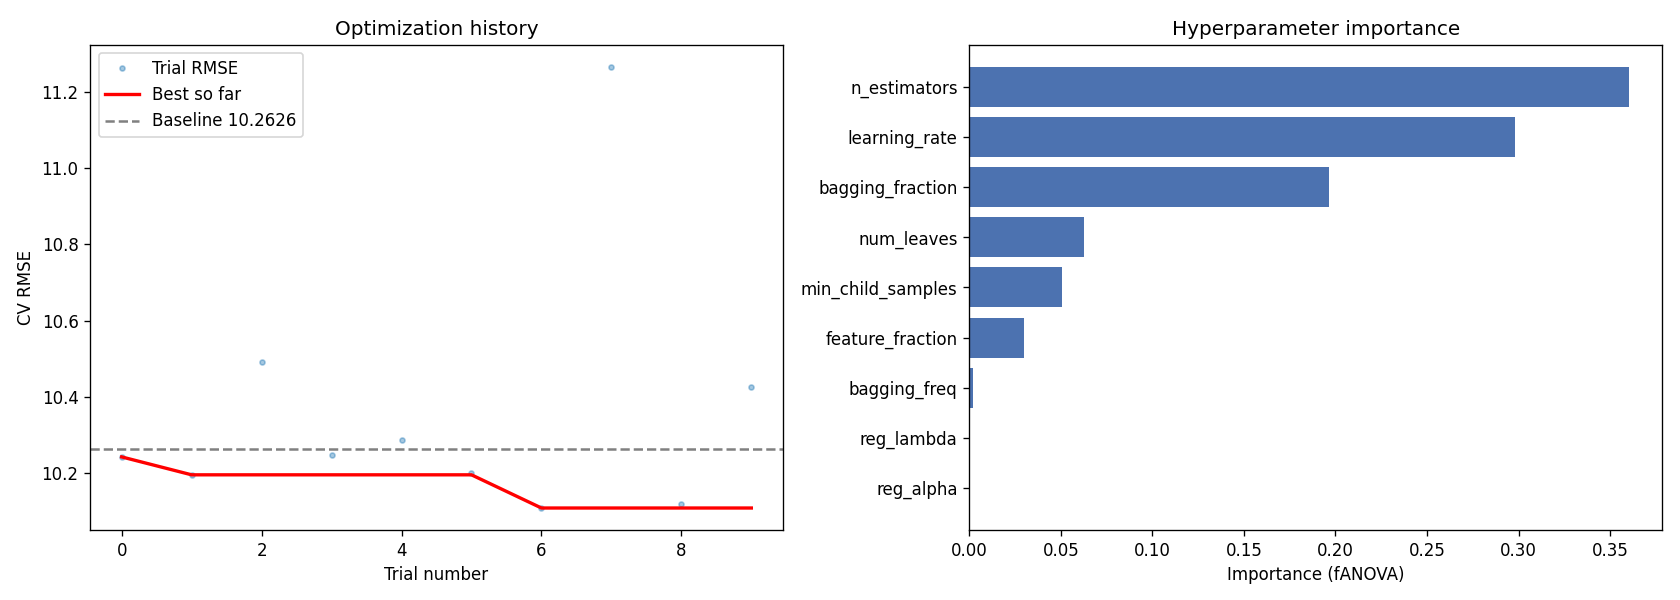
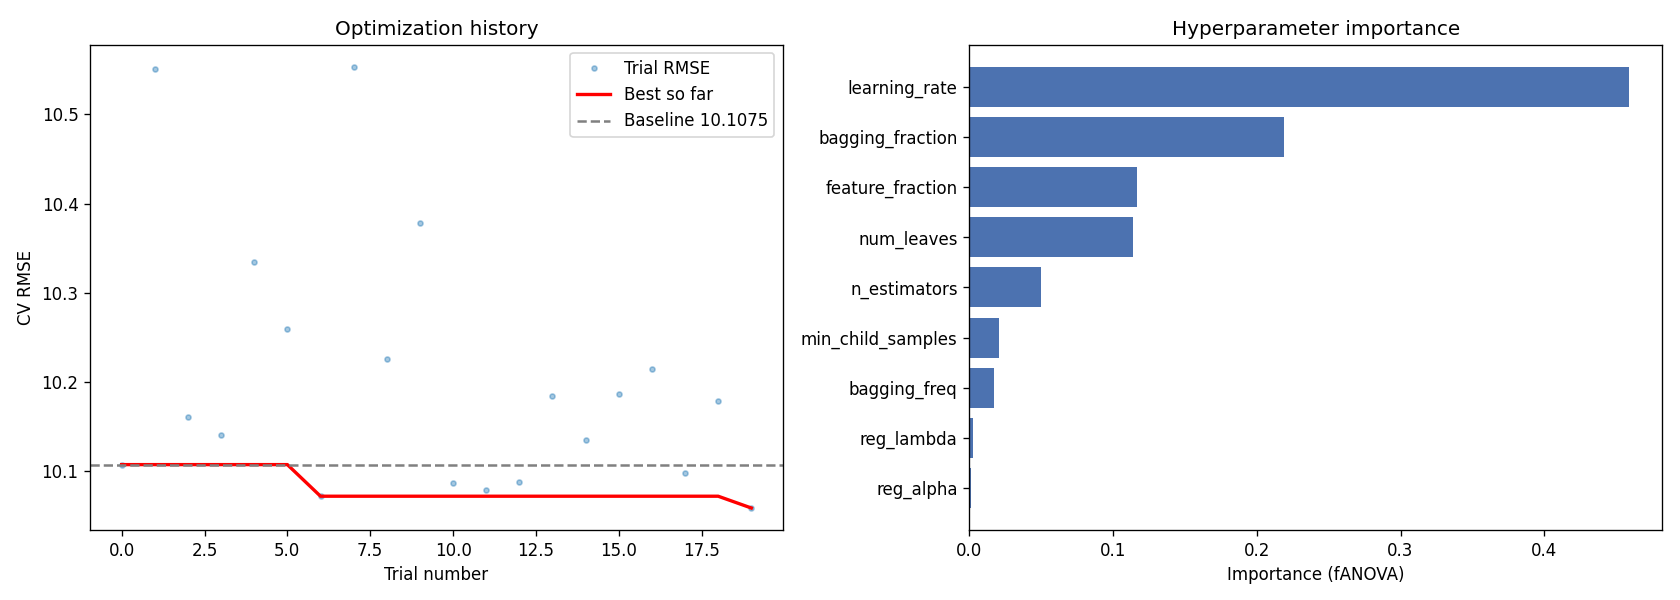
update hyperparameters

diff --git a/config.py b/config.py
@@ -1,15 +1,15 @@
 """Central configuration for model hyperparameters."""
 
 LGBM_PARAMS = dict(
-    num_leaves=114,
-    learning_rate=0.0642033,
-    n_estimators=532,
-    min_child_samples=98,
-    feature_fraction=0.887566,
-    bagging_fraction=0.969749,
-    bagging_freq=9,
-    reg_alpha=0.00240492,
-    reg_lambda=1.98093,
+    num_leaves=200,
+    learning_rate=0.0355003,
+    n_estimators=1670,
+    min_child_samples=55,
+    feature_fraction=0.810305,
+    bagging_fraction=0.92132,
+    bagging_freq=6,
+    reg_alpha=0.224335,
+    reg_lambda=4.80759,
     random_state=42,
     n_jobs=-1,
     verbose=-1,
